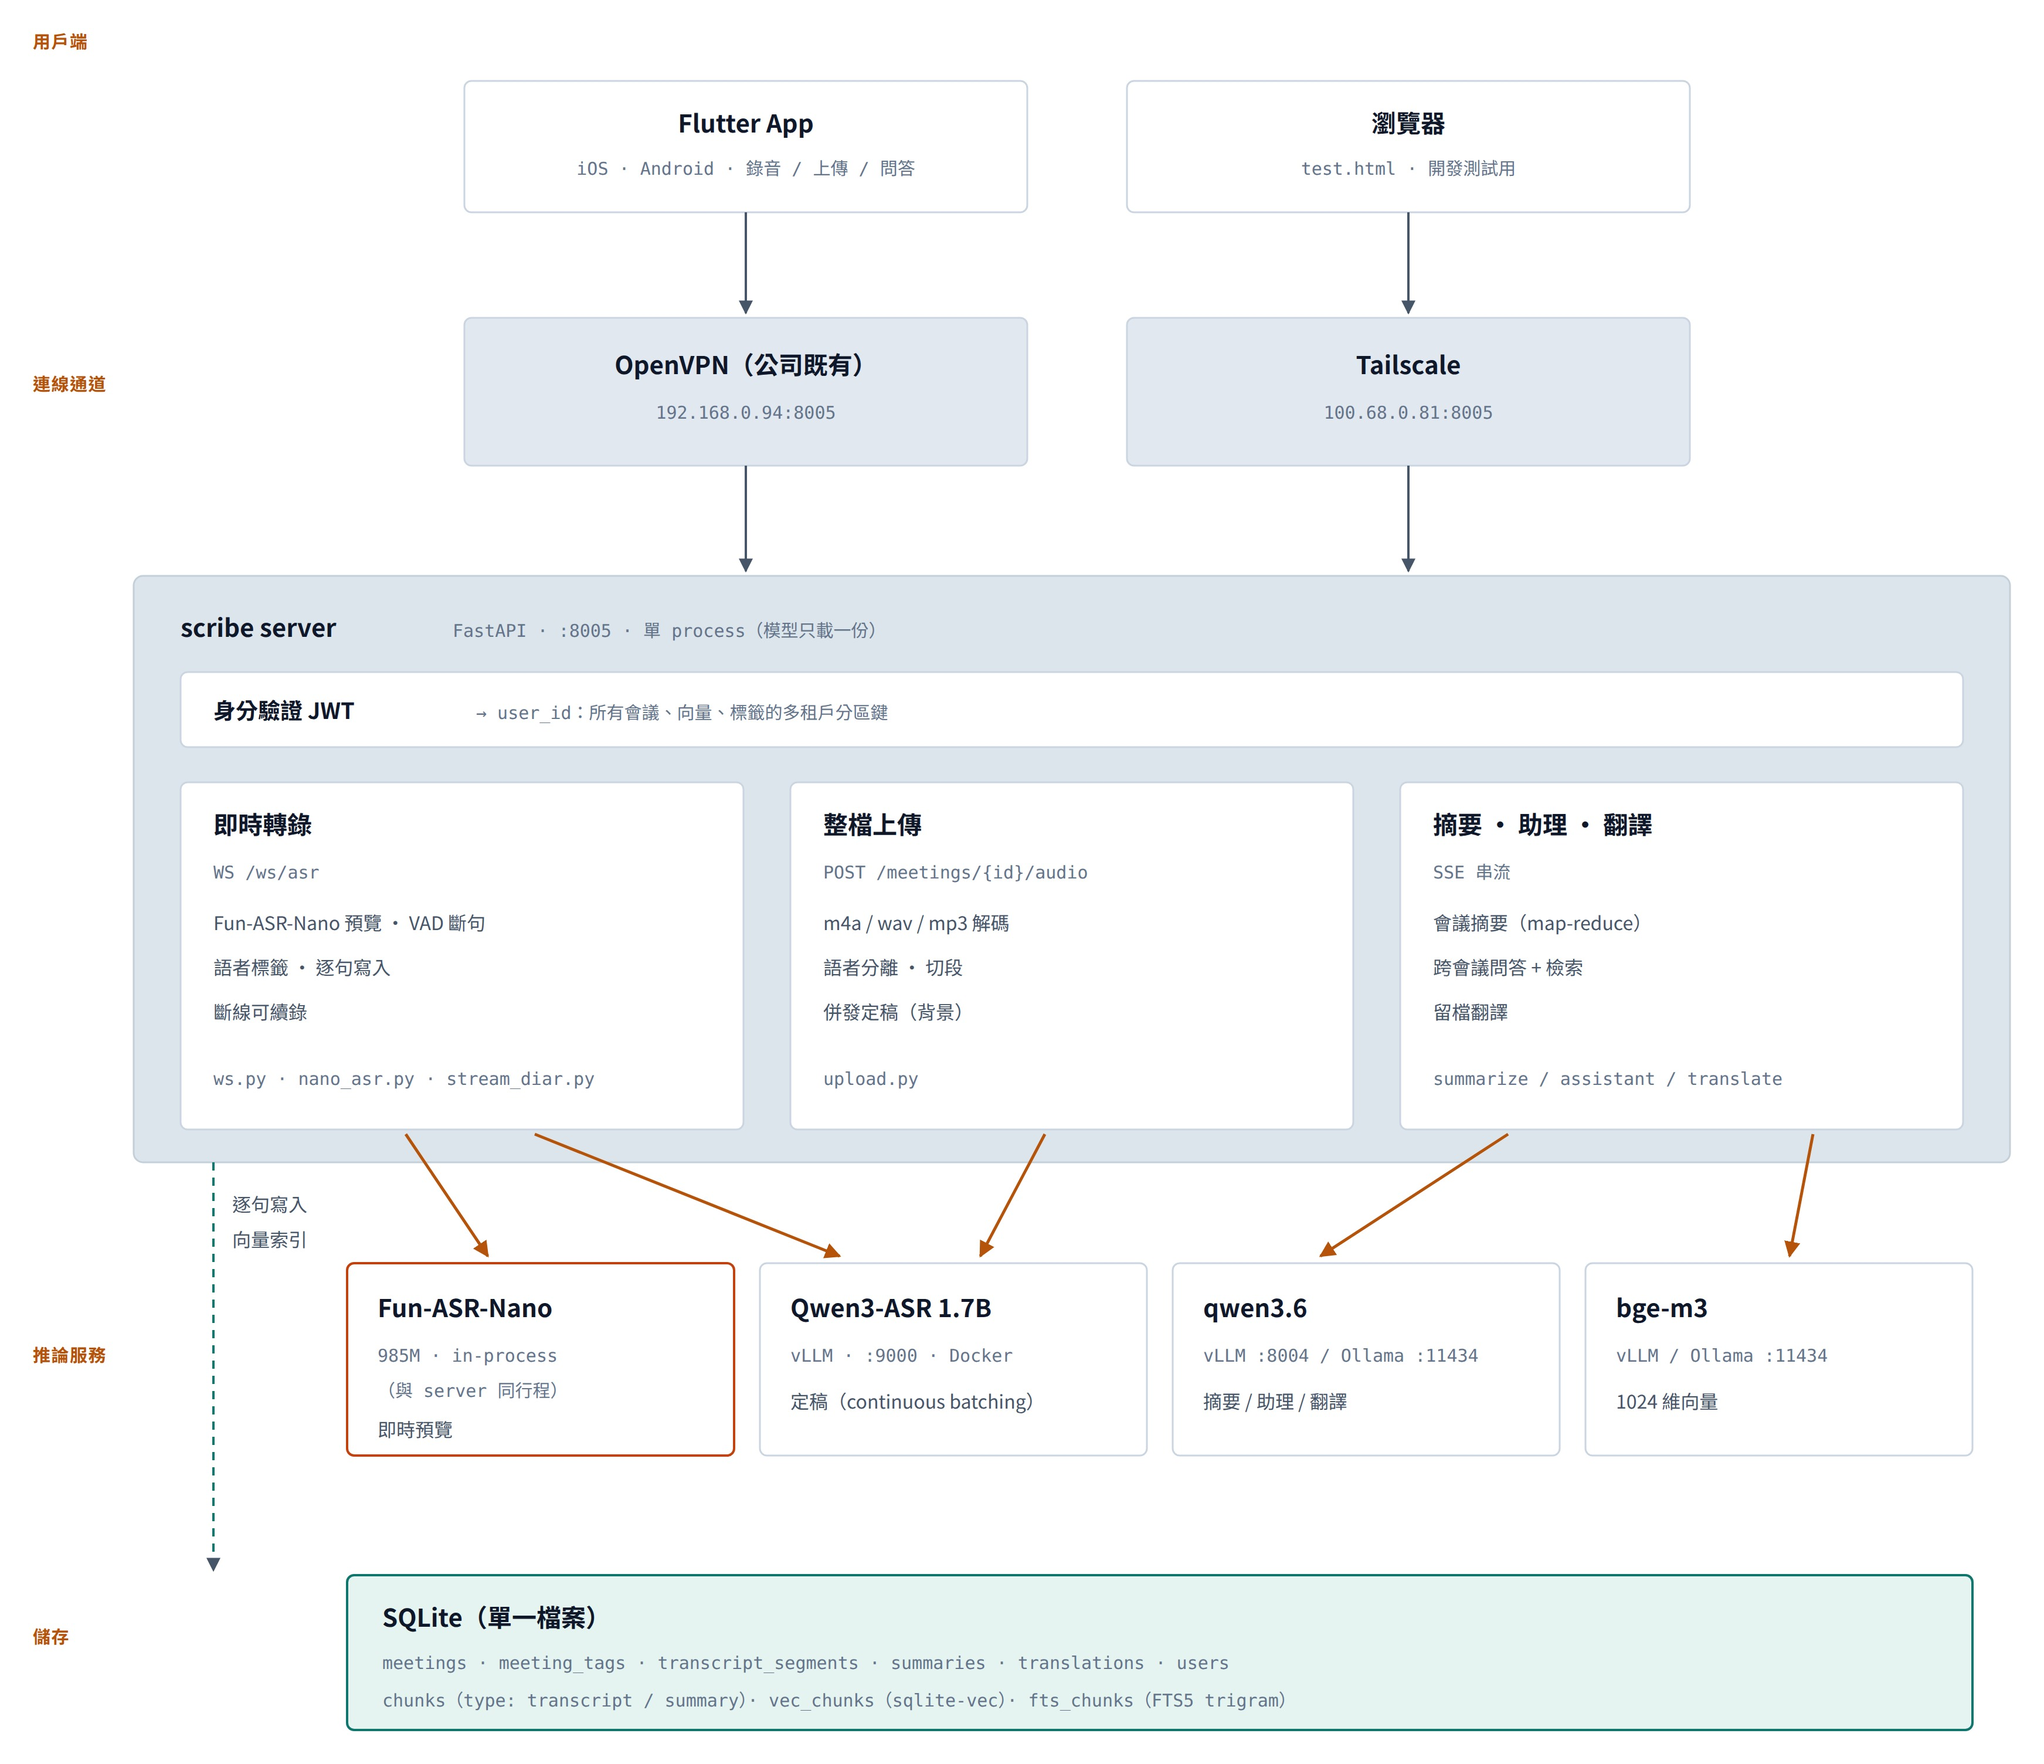
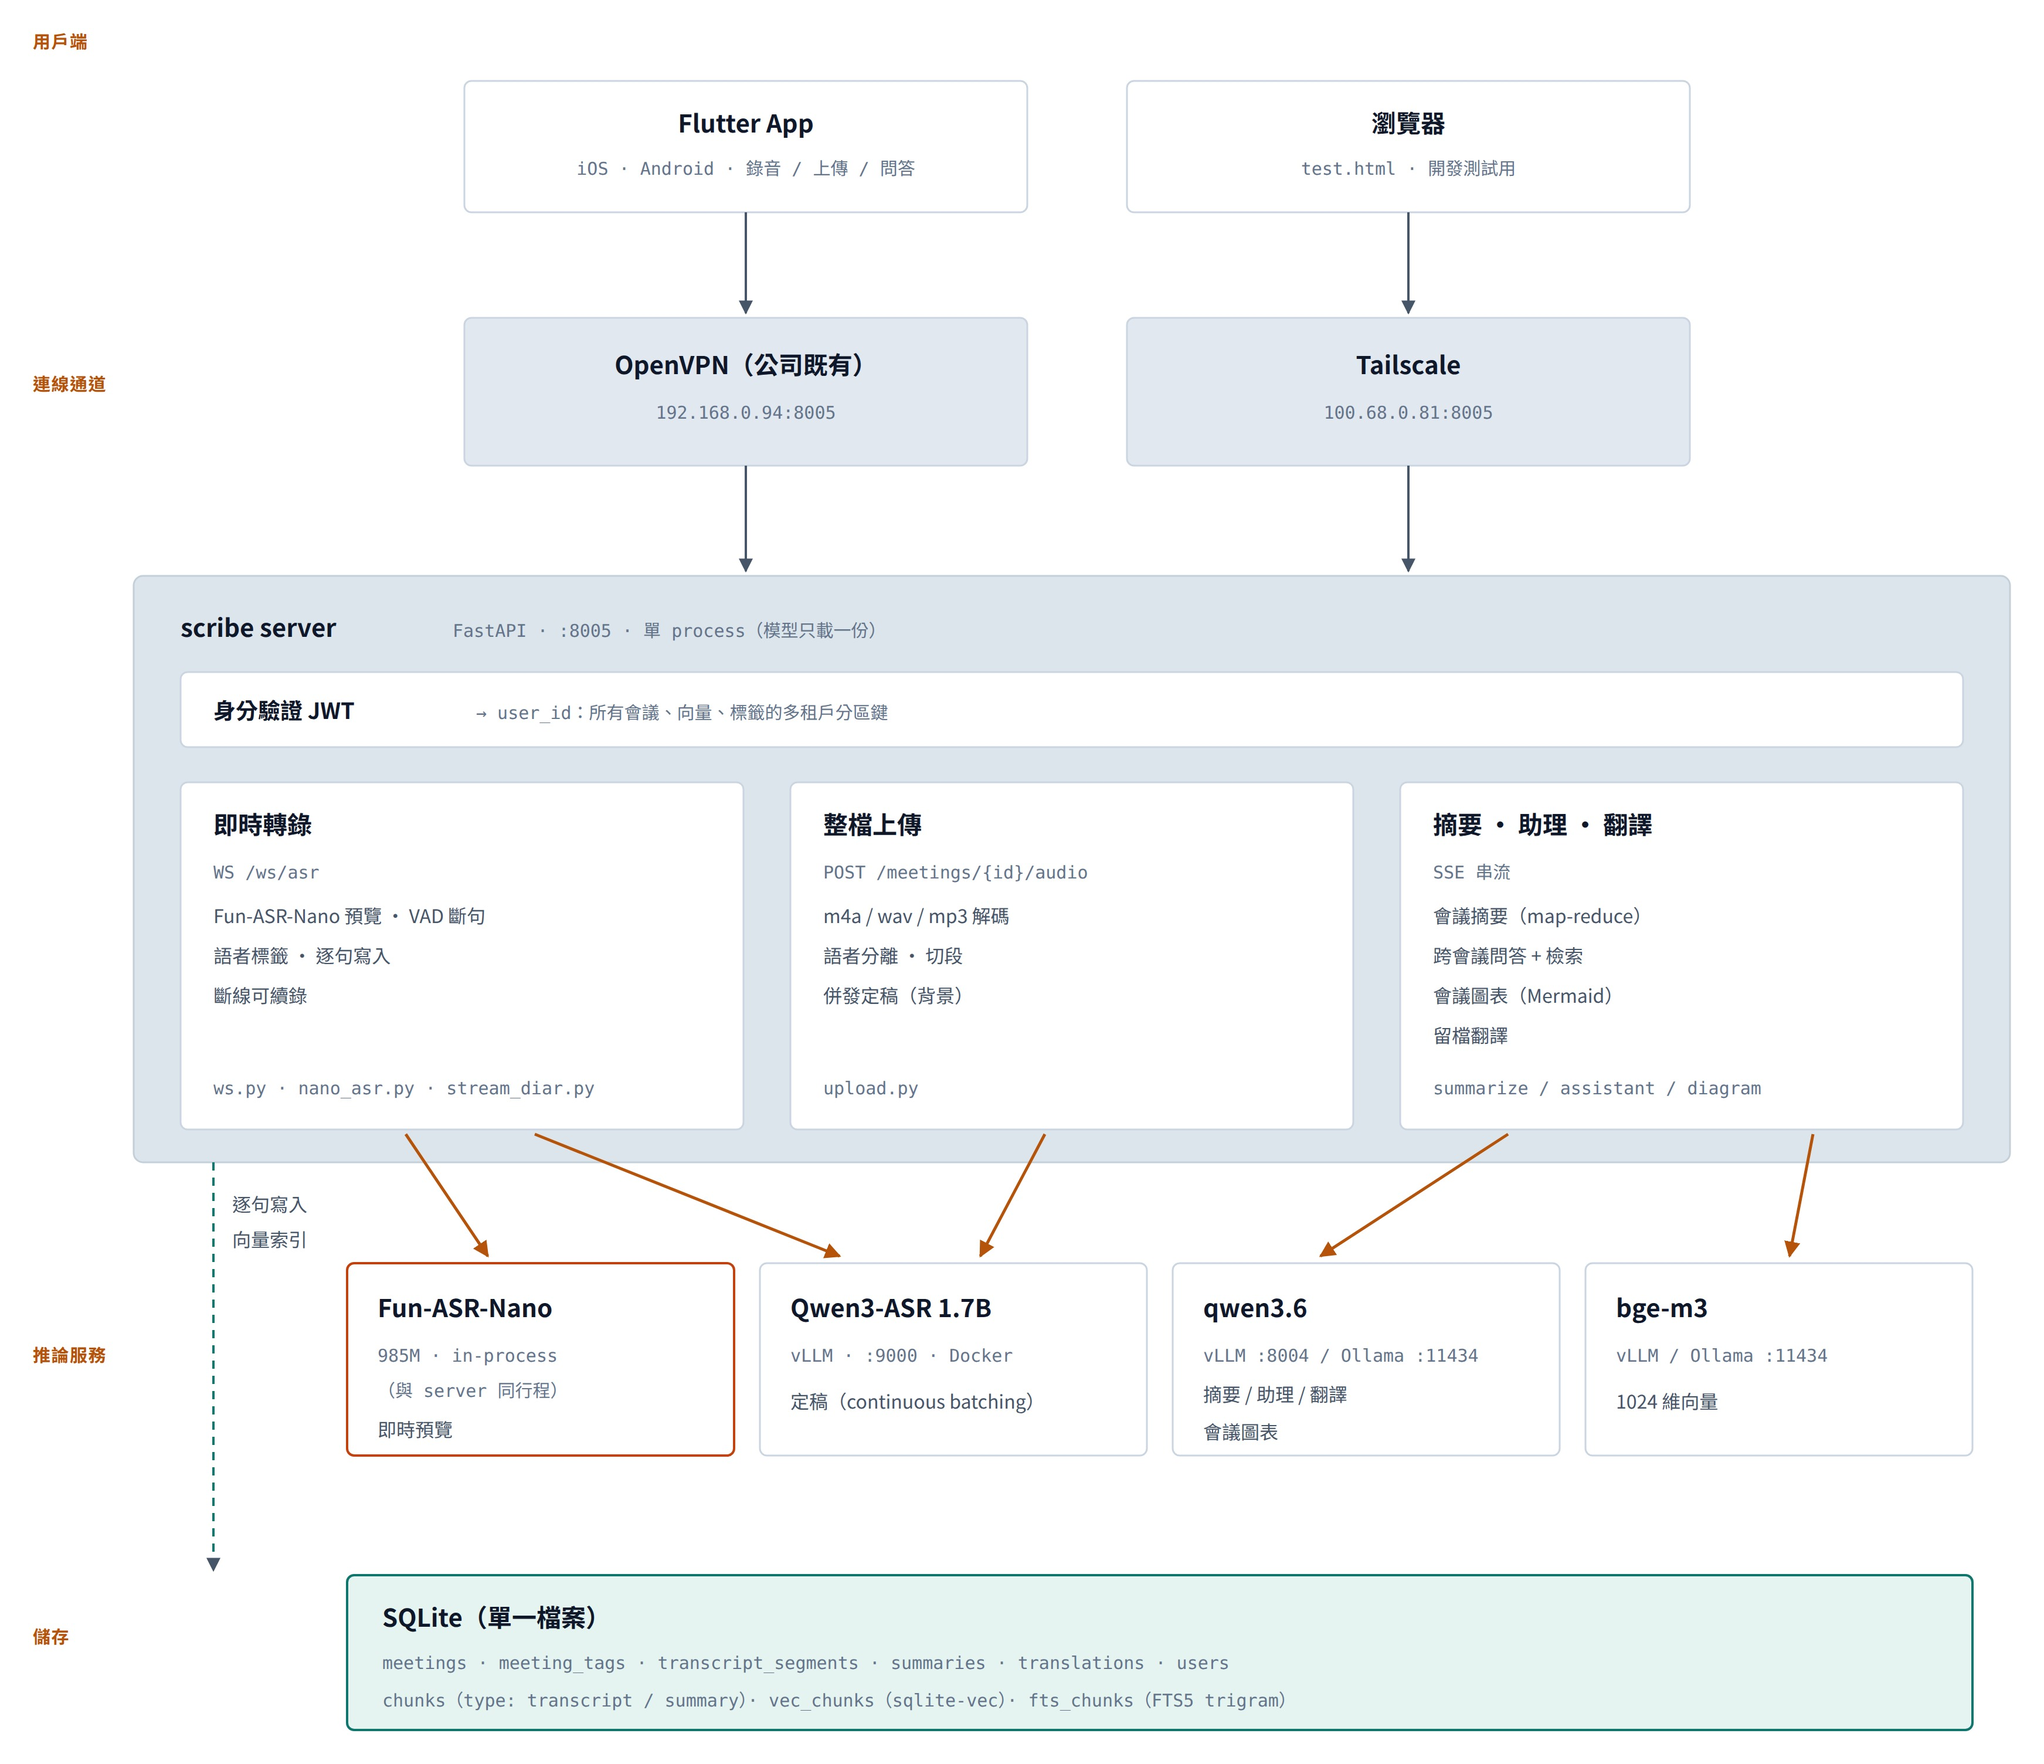
README + 架構圖:補上會議圖表功能;圖檔原始碼納入 repo
README:
- ⑤ agentic 助理的工具清單加 draw_meeting_diagram,SSE 回傳多一行 diagram 事件
- 新增「會議圖表」小節:四種 kind、事件格式、App 端要做什麼、四個設計取捨
- 環境變數表補 DIAGRAM_MAX_CHARS;專案結構補 diagram.py

架構圖 scribe-01:
- 「摘要·助理·翻譯」加「會議圖表(Mermaid)」,檔案列補 diagram
- qwen3.6 的用途加「會議圖表」

另外把圖檔**原始碼**放進 docs/src/(html + render.py)。
先前的原始碼只存在臨時目錄,session 一清就沒了,每次改圖都得整張重畫。
render.py 也把「渲染大一點再自動裁切」那個修正固定下來 ——
Chrome 的 window-size 會把剛好等高的內容切掉底部(舊版 scribe-01 就少了
SQLite 框最後一行,肉眼很難發現)。

diff --git a/docs/src/scribe-01-architecture.html b/docs/src/scribe-01-architecture.html
@@ -1,0 +1,112 @@
+<style>
+ body{margin:0;background:#fff}
+ svg{display:block}
+ .lbl{font:600 15px/1 "Noto Sans CJK TC",sans-serif;fill:#b45309;letter-spacing:.05em}
+ .ttl{font:700 21px/1 "Noto Sans CJK TC",sans-serif;fill:#0f172a}
+ .t{font:600 19px/1 "Noto Sans CJK TC",sans-serif;fill:#0f172a}
+ .m{font:400 15px/1 "DejaVu Sans Mono","Noto Sans CJK TC",monospace;fill:#64748b}
+ .b{font:400 16px/1 "Noto Sans CJK TC",sans-serif;fill:#475569}
+ .box{fill:#fff;stroke:#cbd5e1;stroke-width:1.5;rx:6}
+ .grey{fill:#e2e8f0;stroke:#cbd5e1;stroke-width:1.5;rx:6}
+ .shell{fill:#dde5ec;stroke:#c3cfd9;stroke-width:1.5;rx:8}
+ .teal{fill:#e6f4f1;stroke:#0f766e;stroke-width:2;rx:6}
+ .hi{fill:#fff;stroke:#c2410c;stroke-width:2;rx:6}
+ .ar{stroke:#475569;stroke-width:2;fill:none;marker-end:url(#a)}
+ .aro{stroke:#b45309;stroke-width:2.5;fill:none;marker-end:url(#o)}
+</style>
+<svg width="1790" height="1540" viewBox="0 0 1790 1540" xmlns="http://www.w3.org/2000/svg">
+<defs>
+<marker id="a" viewBox="0 0 10 10" refX="9" refY="5" markerWidth="6" markerHeight="6" orient="auto"><path d="M0 0 L10 5 L0 10 z" fill="#475569"/></marker>
+<marker id="o" viewBox="0 0 10 10" refX="9" refY="5" markerWidth="5.5" markerHeight="5.5" orient="auto"><path d="M0 0 L10 5 L0 10 z" fill="#b45309"/></marker>
+</defs>
+
+<text class="lbl" x="42" y="60">用戶端</text>
+<rect class="box" x="410" y="88" width="480" height="112"/>
+<text class="ttl" x="650" y="132" text-anchor="middle">Flutter App</text>
+<text class="m"   x="650" y="168" text-anchor="middle">iOS · Android · 錄音 / 上傳 / 問答</text>
+<rect class="box" x="975" y="88" width="480" height="112"/>
+<text class="ttl" x="1215" y="132" text-anchor="middle">瀏覽器</text>
+<text class="m"   x="1215" y="168" text-anchor="middle">test.html · 開發測試用</text>
+<path class="ar" d="M650 200 L650 286"/>
+<path class="ar" d="M1215 200 L1215 286"/>
+
+<text class="lbl" x="42" y="352">連線通道</text>
+<rect class="grey" x="410" y="290" width="480" height="126"/>
+<text class="ttl" x="650" y="338" text-anchor="middle">OpenVPN（公司既有）</text>
+<text class="m"   x="650" y="376" text-anchor="middle">192.168.0.94:8005</text>
+<rect class="grey" x="975" y="290" width="480" height="126"/>
+<text class="ttl" x="1215" y="338" text-anchor="middle">Tailscale</text>
+<text class="m"   x="1215" y="376" text-anchor="middle">100.68.0.81:8005</text>
+<path class="ar" d="M650 416 L650 506"/>
+<path class="ar" d="M1215 416 L1215 506"/>
+
+<rect class="shell" x="128" y="510" width="1600" height="500"/>
+<text class="ttl" x="168" y="562">scribe server</text>
+<text class="m"   x="400" y="562">FastAPI · :8005 · 單 process（模型只載一份）</text>
+<rect class="box" x="168" y="592" width="1520" height="64"/>
+<text class="t" x="196" y="632">身分驗證 JWT</text>
+<text class="m" x="420" y="632">→ user_id：所有會議、向量、標籤的多租戶分區鍵</text>
+
+<rect class="box" x="168" y="686" width="480" height="296"/>
+<text class="ttl" x="196" y="730">即時轉錄</text>
+<text class="m"   x="196" y="768">WS /ws/asr</text>
+<text class="b"   x="196" y="806">Fun-ASR-Nano 預覽 · VAD 斷句</text>
+<text class="b"   x="196" y="840">語者標籤 · 逐句寫入</text>
+<text class="b"   x="196" y="874">斷線可續錄</text>
+<text class="m"   x="196" y="952">ws.py · nano_asr.py · stream_diar.py</text>
+
+<rect class="box" x="688" y="686" width="480" height="296"/>
+<text class="ttl" x="716" y="730">整檔上傳</text>
+<text class="m"   x="716" y="768">POST /meetings/{id}/audio</text>
+<text class="b"   x="716" y="806">m4a / wav / mp3 解碼</text>
+<text class="b"   x="716" y="840">語者分離 · 切段</text>
+<text class="b"   x="716" y="874">併發定稿（背景）</text>
+<text class="m"   x="716" y="952">upload.py</text>
+
+<rect class="box" x="1208" y="686" width="480" height="296"/>
+<text class="ttl" x="1236" y="730">摘要 · 助理 · 翻譯</text>
+<text class="m"   x="1236" y="768">SSE 串流</text>
+<text class="b"   x="1236" y="806">會議摘要（map-reduce）</text>
+<text class="b"   x="1236" y="840">跨會議問答 + 檢索</text>
+<text class="b"   x="1236" y="874">會議圖表（Mermaid）</text>
+<text class="b"   x="1236" y="908">留檔翻譯</text>
+<text class="m"   x="1236" y="952">summarize / assistant / diagram</text>
+
+<text class="lbl" x="42" y="1180">推論服務</text>
+<rect class="hi"  x="310" y="1096" width="330" height="164"/>
+<text class="ttl" x="336" y="1142">Fun-ASR-Nano</text>
+<text class="m"   x="336" y="1180">985M · in-process</text>
+<text class="m"   x="336" y="1210">（與 server 同行程）</text>
+<text class="b"   x="336" y="1244">即時預覽</text>
+
+<rect class="box" x="662" y="1096" width="330" height="164"/>
+<text class="ttl" x="688" y="1142">Qwen3-ASR 1.7B</text>
+<text class="m"   x="688" y="1180">vLLM · :9000 · Docker</text>
+<text class="b"   x="688" y="1220">定稿（continuous batching）</text>
+
+<rect class="box" x="1014" y="1096" width="330" height="164"/>
+<text class="ttl" x="1040" y="1142">qwen3.6</text>
+<text class="m"   x="1040" y="1180">vLLM :8004 / Ollama :11434</text>
+<text class="b"   x="1040" y="1214">摘要 / 助理 / 翻譯</text>
+<text class="b"   x="1040" y="1246">會議圖表</text>
+
+<rect class="box" x="1366" y="1096" width="330" height="164"/>
+<text class="ttl" x="1392" y="1142">bge-m3</text>
+<text class="m"   x="1392" y="1180">vLLM / Ollama :11434</text>
+<text class="b"   x="1392" y="1220">1024 維向量</text>
+
+<path class="aro" d="M360 986 L430 1090"/>
+<path class="aro" d="M470 986 L730 1090"/>
+<path class="aro" d="M905 986 L850 1090"/>
+<path class="aro" d="M1300 986 L1140 1090"/>
+<path class="aro" d="M1560 986 L1540 1090"/>
+
+<path d="M196 1010 L196 1358" stroke="#0f766e" stroke-width="2" stroke-dasharray="7 6" fill="none" marker-end="url(#a)"/>
+<text class="b" x="212" y="1052">逐句寫入</text>
+<text class="b" x="212" y="1082">向量索引</text>
+<text class="lbl" x="42" y="1420">儲存</text>
+<rect class="teal" x="310" y="1362" width="1386" height="132"/>
+<text class="ttl" x="340" y="1406">SQLite（單一檔案）</text>
+<text class="m"   x="340" y="1442">meetings · meeting_tags · transcript_segments · summaries · translations · users</text>
+<text class="m"   x="340" y="1474">chunks（type: transcript / summary）· vec_chunks（sqlite-vec）· fts_chunks（FTS5 trigram）</text>
+</svg>

diff --git a/docs/src/render.py b/docs/src/render.py
@@ -1,0 +1,28 @@
+#!/usr/bin/env python3
+"""把 docs/src/*.html 渲染成 docs/*.jpg。
+
+用法: python docs/src/render.py docs/src/scribe-01-architecture.html 1790 1540
+
+渲染大一點再依內容自動裁切 —— Chrome 的 --window-size 會把剛好等高的內容
+切掉底部(舊版 scribe-01 就少了 SQLite 框的最後一行,肉眼很難發現)。
+"""
+import subprocess, sys, os
+import numpy as np
+from PIL import Image
+
+src, w, h = sys.argv[1], int(sys.argv[2]), int(sys.argv[3])
+out = os.path.join("docs", os.path.basename(src).replace(".html", ".jpg"))
+png = "/tmp/_render.png"
+subprocess.run(["google-chrome", "--headless", "--disable-gpu", "--no-sandbox",
+                "--hide-scrollbars", "--force-device-scale-factor=2",
+                f"--window-size={w+80},{h+300}", f"--screenshot={png}",
+                f"file://{os.path.abspath(src)}"], capture_output=True)
+im = Image.open(png).convert("RGB")
+ink = np.argwhere(np.array(im.convert("L")) < 245)
+if ink.size == 0:
+    sys.exit("渲染結果是空白的")
+y0, x0 = ink.min(0); y1, x1 = ink.max(0)
+M = 56
+im.crop((max(0, x0-M), max(0, y0-M),
+         min(im.width, x1+M+1), min(im.height, y1+M+1))).save(out, quality=92)
+print(f"{out}  {Image.open(out).size}")

diff --git a/README.md b/README.md
@@ -60,6 +60,7 @@ app/
 ├── rag.py                 ⑥ 切塊/索引/檢索(向量 + 可選 hybrid)
 ├── summarize.py           ④ 會議摘要(SSE)
 ├── assistant.py           ⑤ agentic 助理(SSE + 工具)
+├── diagram.py             ⑦ 會議圖表(產 Mermaid,App 端渲染)
 ├── translate.py           留檔翻譯(SSE)
 ├── chat_qa.py             /meeting/chat 單場問答(舊端點)
 ├── auth.py                ⑦ JWT / Tailscale 身分
@@ -237,11 +238,47 @@ Server → Client (JSON):
 ```
 body: {"messages":[{"role","content"}...], "meeting_id":str|null, "language":"zh-Hant"}
 回傳(text/event-stream): data: {"delta":"..."}  ...  data: [DONE]
+                        data: {"type":"diagram", ...}      ← 畫圖時才有,見下節
 ```
 > 手寫 **agent loop**:LLM 自行決定是否呼叫工具(多輪),最後串流答案。工具:
-> `get_meeting_transcript` / `get_meeting_summary` / `list_meetings` / `search_meetings`(**語意檢索**,可帶日期範圍)。
+> `get_meeting_transcript` / `get_meeting_summary` / `list_meetings` / `search_meetings`(**語意檢索**,可帶日期範圍)
+> / `draw_meeting_diagram`(**畫成圖表**)。
 > 帶 `meeting_id` → 以該場為「目前會議」;不帶 → 可跨會議。系統會注入「今天日期」,agent 能自行把
 > 「上週/上個月5號」換算成 `date_from/date_to` 傳給 `search_meetings`。工具註冊表好擴充(加工具 = 加 schema + handler)。
+
+### 會議圖表 — agent 工具 `draw_meeting_diagram`
+
+使用者說「把這場會議畫成流程圖」「整理成關係圖」時，agent 自己呼叫。四種圖：
+
+| `kind` | 畫什麼 | Mermaid |
+|---|---|---|
+| `flow` | 流程、步驟、決策分支 | `flowchart TD` |
+| `relation` | 人／單位／系統／專案的關聯 | `graph LR` |
+| `timeline` | 里程碑與期程 | `timeline` |
+| `mindmap` | 主題階層 | `mindmap` |
+
+沒指定 `kind` 時由 LLM 依內容挑；可帶 `focus` 只畫某個子主題。
+
+**圖走自己的 SSE 事件，不回到 LLM 的上下文：**
+
+```json
+{"type":"diagram", "kind":"flow", "meeting_id":"...", "source":"summary",
+ "code":"flowchart TD\n    n1[\"系統登入\"] --> n2{\"案件來源\"}\n ...",
+ "hint":"這場會議還沒有摘要…"}
+```
+
+> **App 端要做的**：收到這個事件就用 mermaid.js 渲染 `code`（WebView 載 mermaid.js
+> 最省事）。`hint` 只在沒摘要時出現，可做成提示橫幅。
+
+設計取捨：
+- **產 Mermaid 原始碼而非圖片** —— 純文字 LLM 直接生得出來，不必在推論路徑上掛瀏覽器；
+  App 端渲染才能縮放／點選。真要圖片，在 `diagram.build()` 後面補 renderer 即可。
+- **不讓 LLM 覆述原始碼** —— 既浪費 token，轉抄時又容易改壞語法。工具只回一句
+  「已產生並顯示」，請它用一兩句話說明圖的內容。
+- **輸入優先用摘要** —— 逐字稿是口語、細節散落，畫出來差一截。沒摘要時回傳 `hint`
+  告訴使用者「產生摘要後重畫會更準確」。
+- **語法驗證 + 一次自我修正** —— LLM 最常犯的是加 ``` 圍欄、拿中文當節點 id、括號不成對；
+  `validate()` 擋下後把錯誤餵回去重出一次（真實會議上實測觸發過並成功修正）。
 
 ### 編輯逐字稿 — `PUT /meetings/{id}/transcript`
 
@@ -411,6 +448,7 @@ GET /meetings/{id}/translation?target=en  → {"target","text"}   (未翻過回 
 | `EMBED_MODEL` | `bge-m3` | Embedding 模型（1024 維）|
 | `EMBED_DIM` | `1024` | 向量維度（換模型要一起改）|
 | `RAG_CHUNK_CHARS` | `400` | 逐字稿切塊字元數 |
+| `DIAGRAM_MAX_CHARS` | `6000` | 畫圖時沒摘要才讀逐字稿，截斷長度 |
 | `RAG_HYBRID` | `0` | `0`=**純向量（預設）**；`1`=向量＋關鍵字 RRF 混合。實測混合未帶來品質提升，見下方 |
 | `RAG_RRF_K` | `60` | RRF 常數：`score = Σ 1/(K + 名次)`。越大越像投票、越小越偏袒各自第一名 |
 | `TRANSLATE_MAP_CHARS` | `3000` | 留檔翻譯:超過此長度就分段翻 |
